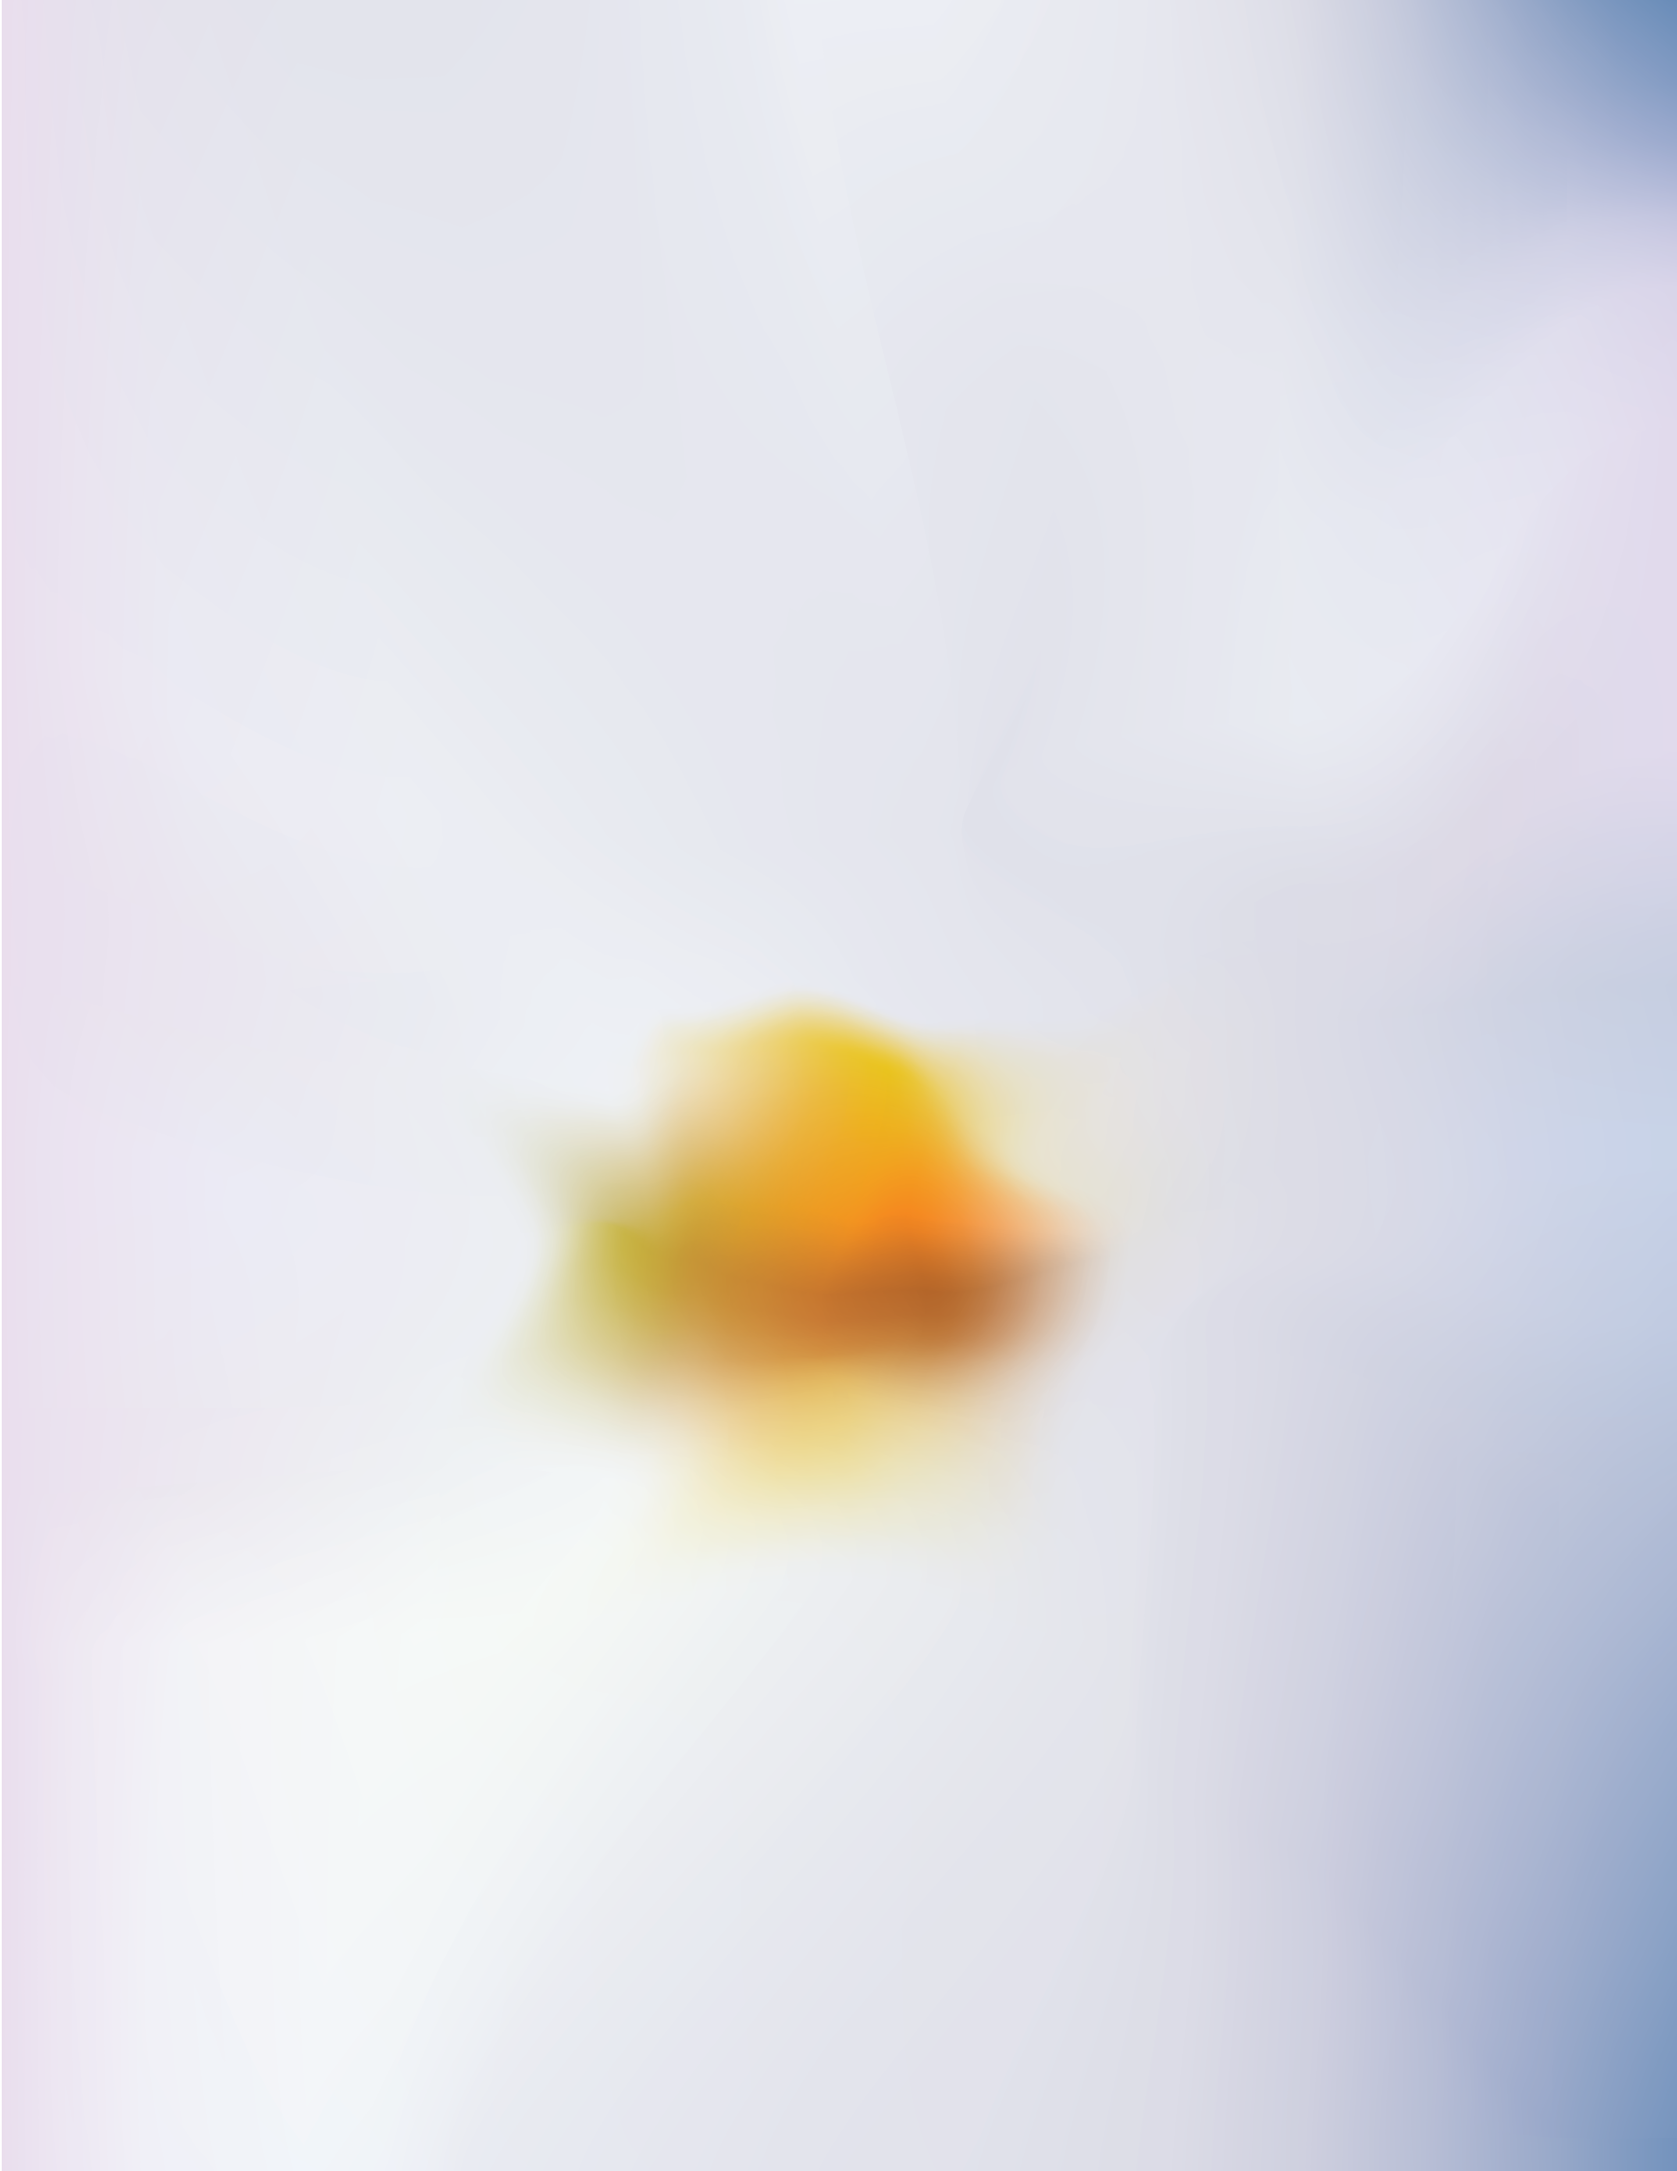
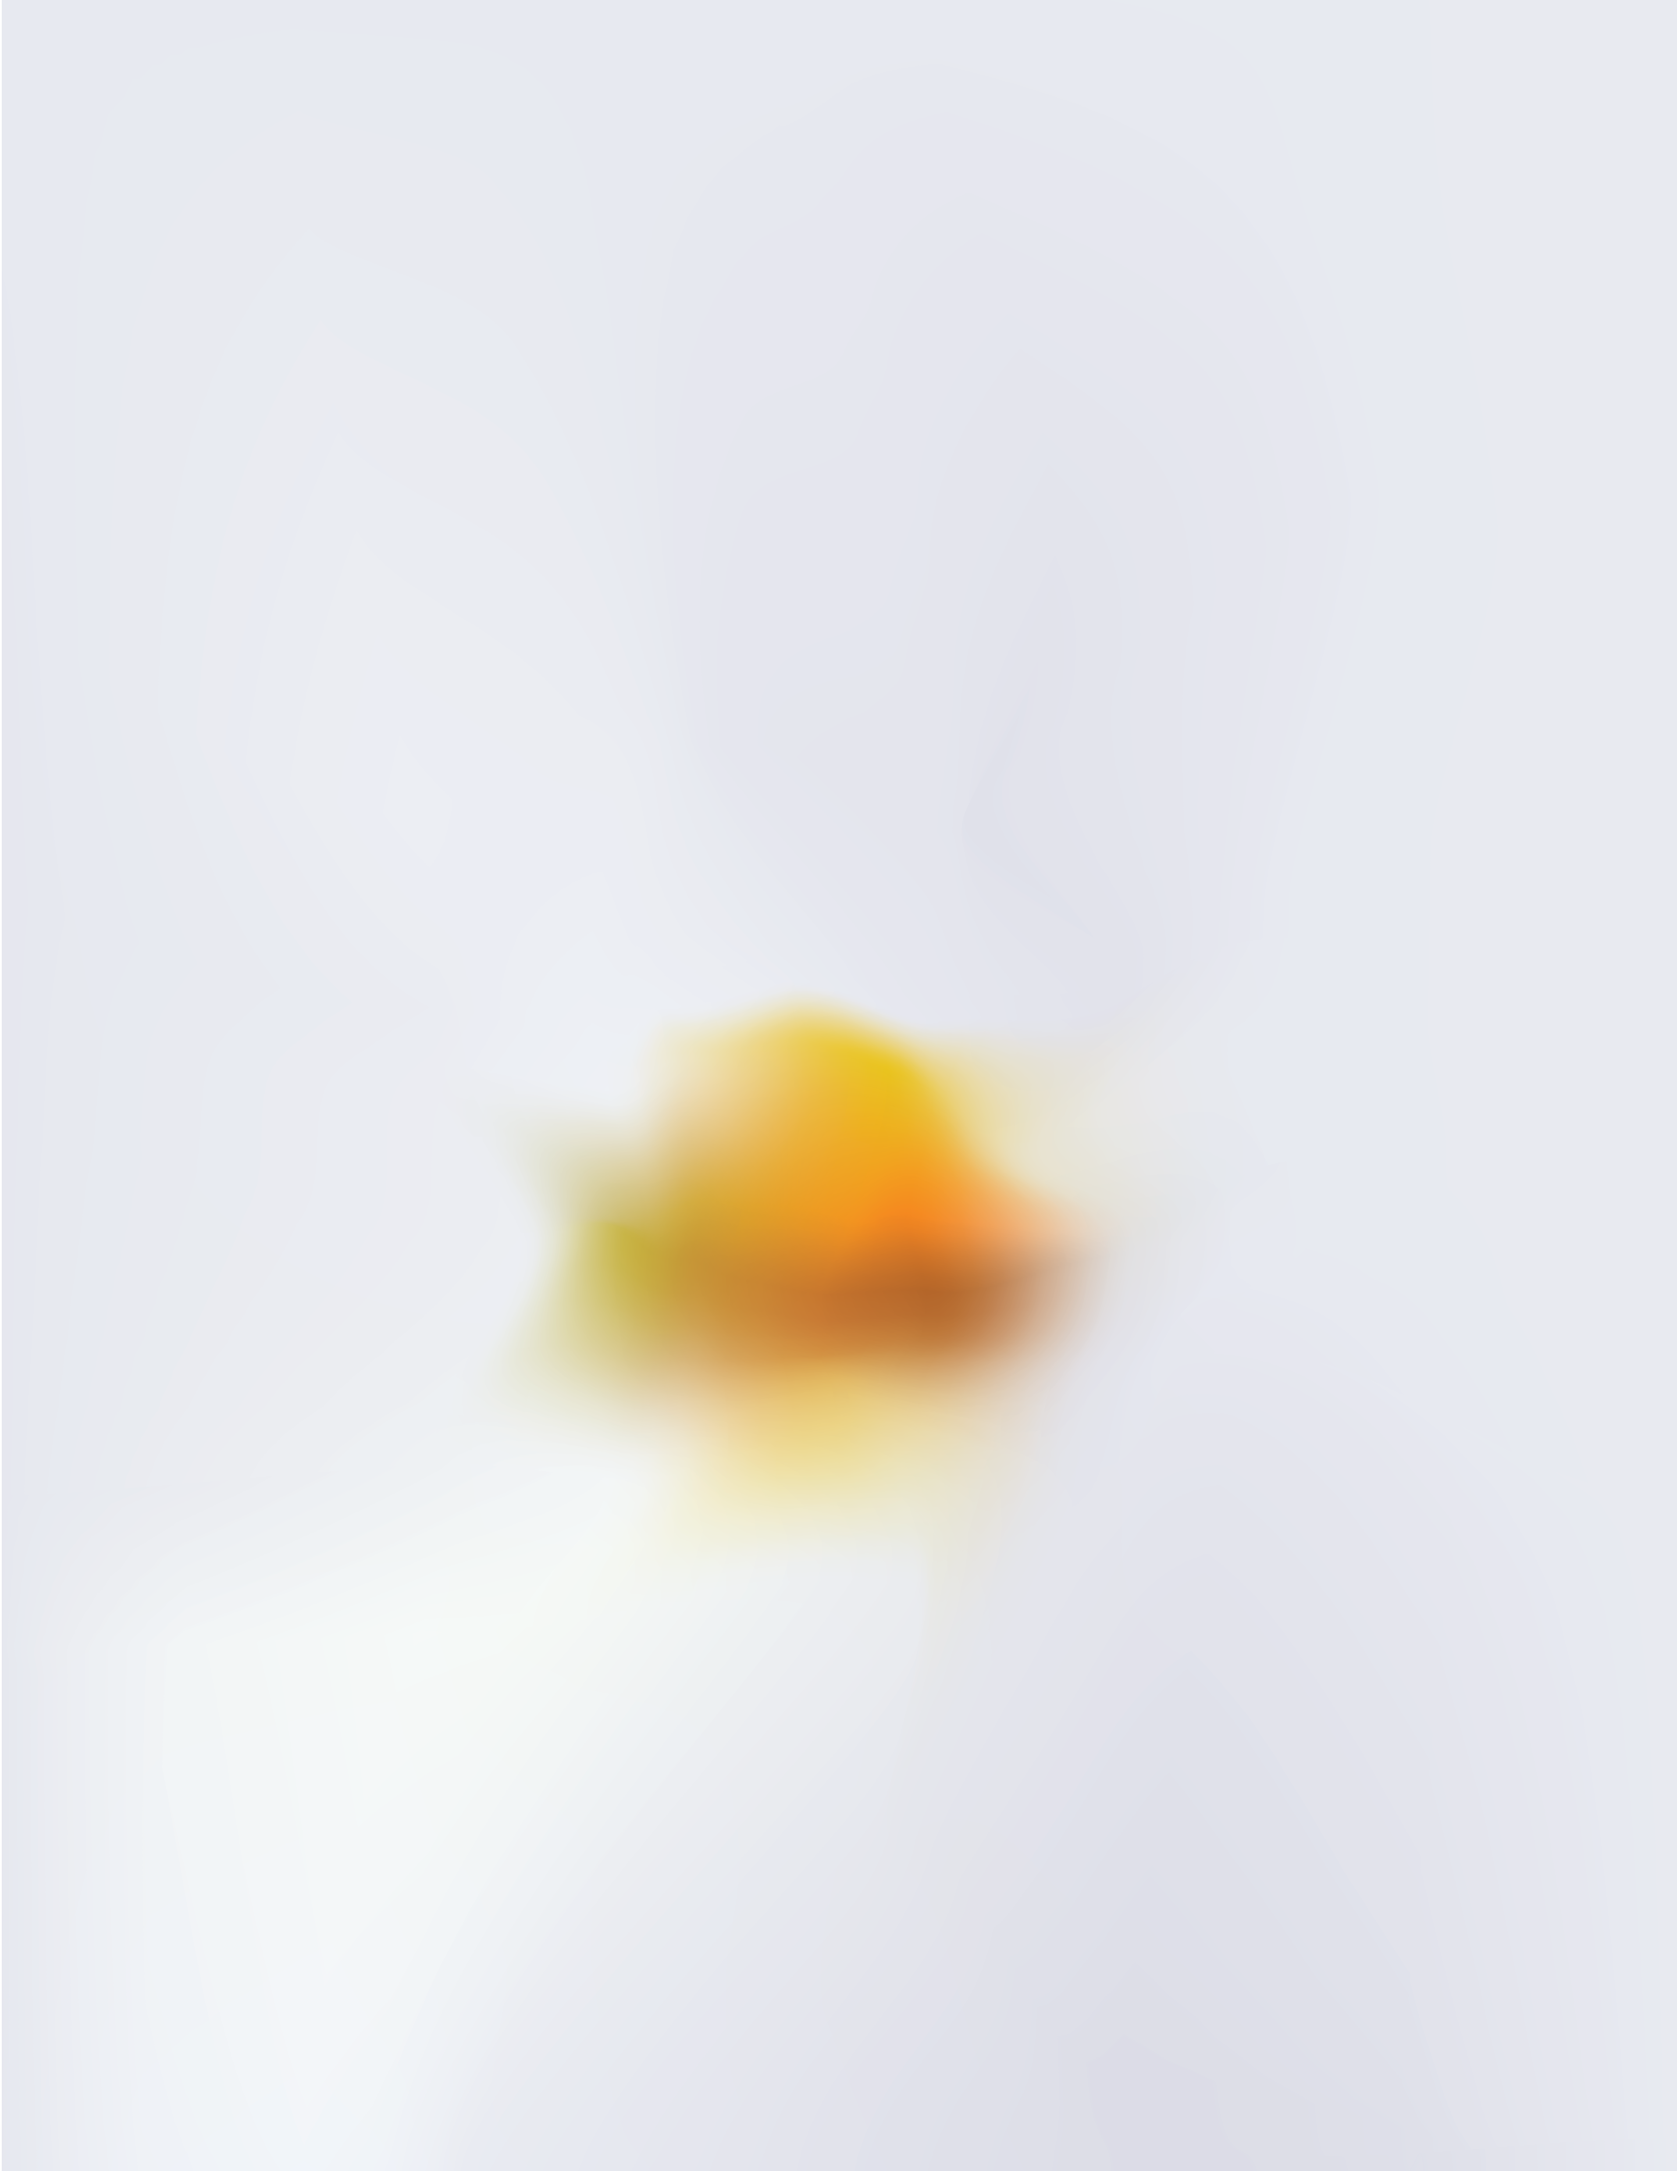
updated contact form images

Changed region(s): [[0.7778, 0.4044, 1.0, 1.0], [0.8089, 0.0, 1.0, 0.1244]]

diff --git a/src/Rooms/Mail Room/ContactForm.tsx b/src/Rooms/Mail Room/ContactForm.tsx
@@ -24,27 +24,39 @@ export class ContactForm extends React.Component<{}, ContactFormState> {
                 onMouseEnter={this.onBlockEnter.bind(this, true)}
                 onMouseLeave={this.onBlockLeave.bind(this, true)}>
                 {!this.state.isHoveringOnLeftBlock &&
-                    <div className="anonymous-option-container"><img
-                        src={MailRoomData.ContactMeLeftBlockBGSource}
+                <div className="anonymous-option-container"><img
+                    src={MailRoomData.ContactMeLeftBlockBGSource}
+                    className="contact-option-image" alt="cover" />
+                    <div className="contact-option-text" id="left-option-text">
+                        {"mail me"}
+                    </div>
+                </div>}
+                {this.state.isHoveringOnLeftBlock &&
+                <div className="anonymous-option-container">
+                    <img
+                        src={MailRoomData.ContactMeLeftBlockBGHighlightedource}
                         className="contact-option-image" alt="cover" />
-                        <div className="contact-option-text" id="left-option-text">
-                            {"mail me"}
-                        </div>
-                    </div>}
+                </div>}
             </div>
             <div id="anonymous-option"
                 className="contact-option"
                 onMouseEnter={this.onBlockEnter.bind(this, false)}
                 onMouseLeave={this.onBlockLeave.bind(this, false)}>
                 {!this.state.isHoveringOnRightBlock &&
-                    <div className="anonymous-option-container">
-                        <img
-                            src={MailRoomData.ContactMeRightBlockBGSource}
-                            className="contact-option-image" alt="cover" />
-                        <div className="contact-option-text" id="right-option-text">
-                            {"or, leave a note anonymously"}
-                        </div>
-                    </div>}
+                <div className="anonymous-option-container">
+                    <img
+                        src={MailRoomData.ContactMeRightBlockBGSource}
+                        className="contact-option-image" alt="cover" />
+                    <div className="contact-option-text" id="right-option-text">
+                        {"or, leave a note anonymously"}
+                    </div>
+                </div>}
+                {this.state.isHoveringOnRightBlock &&
+                <div className="anonymous-option-container">
+                    <img
+                        src={MailRoomData.ContactMeRightBlockBGHighlightedSource}
+                        className="contact-option-image" alt="cover" />
+                </div>}
             </div>
 
         </div>

diff --git a/src/Rooms/Mail Room/MailRoomData.tsx b/src/Rooms/Mail Room/MailRoomData.tsx
@@ -36,10 +36,10 @@ export class MailRoomData {
   public static MailRoomMapDocumentSource = `${process.env.PUBLIC_URL}/documents/Mail Room/Mail Room Map/Mail_Room_Map`;    
 
   public static ContactMeLeftBlockBGSource = `${process.env.PUBLIC_URL}/documents/Mail Room/Contact Me/Left Block.png`;    
-  public static ContactMeLeftBlockBGInvertedSource = `${process.env.PUBLIC_URL}/documents/Mail Room/Contact Me/Left Block Inverted.png`;    
+  public static ContactMeLeftBlockBGHighlightedource = `${process.env.PUBLIC_URL}/documents/Mail Room/Contact Me/Left Block Highlighted.png`;    
 
   public static ContactMeRightBlockBGSource = `${process.env.PUBLIC_URL}/documents/Mail Room/Contact Me/Right Block.png`;    
-  public static ContactMeRightBlockBGInvertedSource = `${process.env.PUBLIC_URL}/documents/Mail Room/Contact Me/Right Block Inverted.png`;    
+  public static ContactMeRightBlockBGHighlightedSource = `${process.env.PUBLIC_URL}/documents/Mail Room/Contact Me/Right Block Highlighted.png`;    
 
   public static MapCoordinates = { 
     name: "mailRoomMap",
